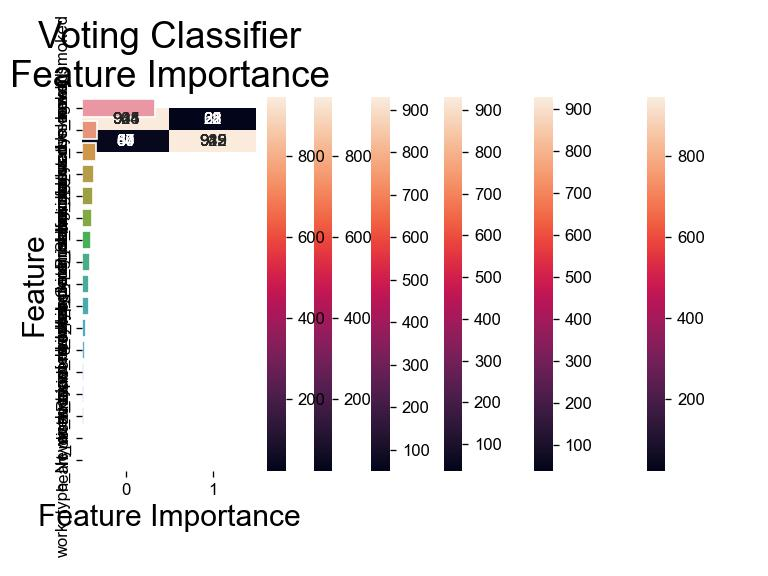
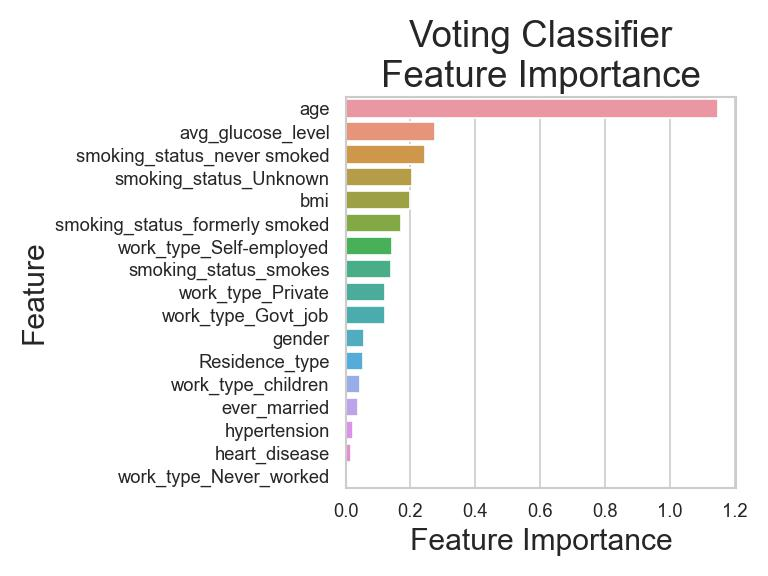
Add files via upload

Changed region(s): [[0.0, 0.0312, 0.9688, 0.9688]]

diff --git a/train.py b/train.py
@@ -39,24 +39,24 @@ y_pred_rf = clf_rf.predict(X_test)
 acc = accuracy_score(y_test, y_pred_rf)
 print('Testing-set Accuracy score is:', acc)
 print('Training-set Accuracy score is:',accuracy_score(y_train,clf_rf.predict(X_train)))
-cm = confusion_matrix(y_test, y_pred_rf)
-sns.heatmap(cm, annot = True, fmt = "d")
+cm_rf = confusion_matrix(y_test, y_pred_rf)
+# sns.heatmap(cm_rf, annot = True, fmt = "d")
 
 gb = GradientBoostingClassifier()
 gb.fit(X_train, y_train)
 gb_pred = gb.predict(X_test)
 acc = accuracy_score(y_test, gb_pred)
 print("Gradient Boosting Classifier Model Accuracy score is:", acc)
-cm = confusion_matrix(y_test, gb_pred)
-sns.heatmap(cm, annot = True, fmt="d")
+cm_gb = confusion_matrix(y_test, gb_pred)
+# sns.heatmap(cm_gb, annot = True, fmt="d")
 
 knn = KNeighborsClassifier(n_neighbors = 10)
 knn.fit(X_train, y_train)
 knn_pred = knn.predict(X_test)
 acc = knn.score(X_test, y_test)
 print("KNN Model Acuuracy is:", acc)
-cm = confusion_matrix(y_test, knn_pred)
-sns.heatmap(cm, annot = True, fmt="d")
+cm_knn = confusion_matrix(y_test, knn_pred)
+# sns.heatmap(cm_knn, annot = True, fmt="d")
 
 lr = LogisticRegression()
 lr.fit(X_train, y_train)
@@ -71,8 +71,8 @@ dt.fit(X_train, y_train)
 dt_pred = dt.predict(X_test)
 acc = accuracy_score(y_test, dt_pred)
 print("Decision Tree accuracy score is :",acc)
-cm = confusion_matrix(y_test, dt_pred)
-sns.heatmap(cm, annot = True, fmt = "d")
+cm_dt = confusion_matrix(y_test, dt_pred)
+# sns.heatmap(cm_dt, annot = True, fmt = "d")
 
 clf1 = GradientBoostingClassifier()
 clf2 = RandomForestClassifier()
@@ -83,7 +83,7 @@ predictions = eclf1.predict(X_test)
 print("Voting Classifier Accuracy Score is: ")
 print(accuracy_score(y_test, predictions))
 cm = confusion_matrix(y_test, predictions)
-sns.heatmap(cm, annot = True, fmt="d")
+# sns.heatmap(cm, annot = True, fmt="d")
 
 acc = accuracy_score(y_test, predictions)
 
@@ -93,7 +93,10 @@ specificity = tn / (tn + fp)
 sensitivity = tp / (tp + fn)
 
 ax = sns.heatmap(cm, annot = True, fmt="d")
-plt.savefig("confusion_metrics.jpg",dpi=80)
+ax.set_title("Confusion Metrics", fontsize = 22)
+plt.tight_layout()
+plt.savefig("confusion_metrics.jpg",dpi=120)
+plt.close()
 
 def compute_feature_importance(voting_clf, weights):
     """ Function to compute feature importance of Voting Classifier """
@@ -110,7 +113,7 @@ def compute_feature_importance(voting_clf, weights):
 
 df3 = pd.DataFrame(columns = ["Feature","Feature Importance"])
 df3["Feature"] = X_train0.columns
-df3["Feature Importance"] = compute_feature_importance(eclf1,[1,1,1])
+df3["Feature Importance"] = compute_feature_importance(eclf1,[1,2,1])
 df3 = df3.sort_values("Feature Importance",ascending = False)
 
 axis_fs = 18 #fontsize
@@ -127,4 +130,12 @@ plt.savefig("feature_importance.jpg",dpi=120)
 plt.close()
 
 with open("metrics.json", 'w') as outfile:
-        json.dump({ "accuracy": acc, "specificity": specificity, "sensitivity":sensitivity}, outfile)
+    json.dump({ "accuracy": acc, "specificity": specificity, "sensitivity":sensitivity}, outfile)
+
+with open("metrics.txt", 'w') as f:
+    acc = repr(acc)
+    specificity = repr(specificity)
+    sensitivity = repr(sensitivity)
+    f.write("Accuracy: "+ acc)
+    f.write("\nSpecificity: "+ specificity)
+    f.write("\nSensitivity: "+ sensitivity)
